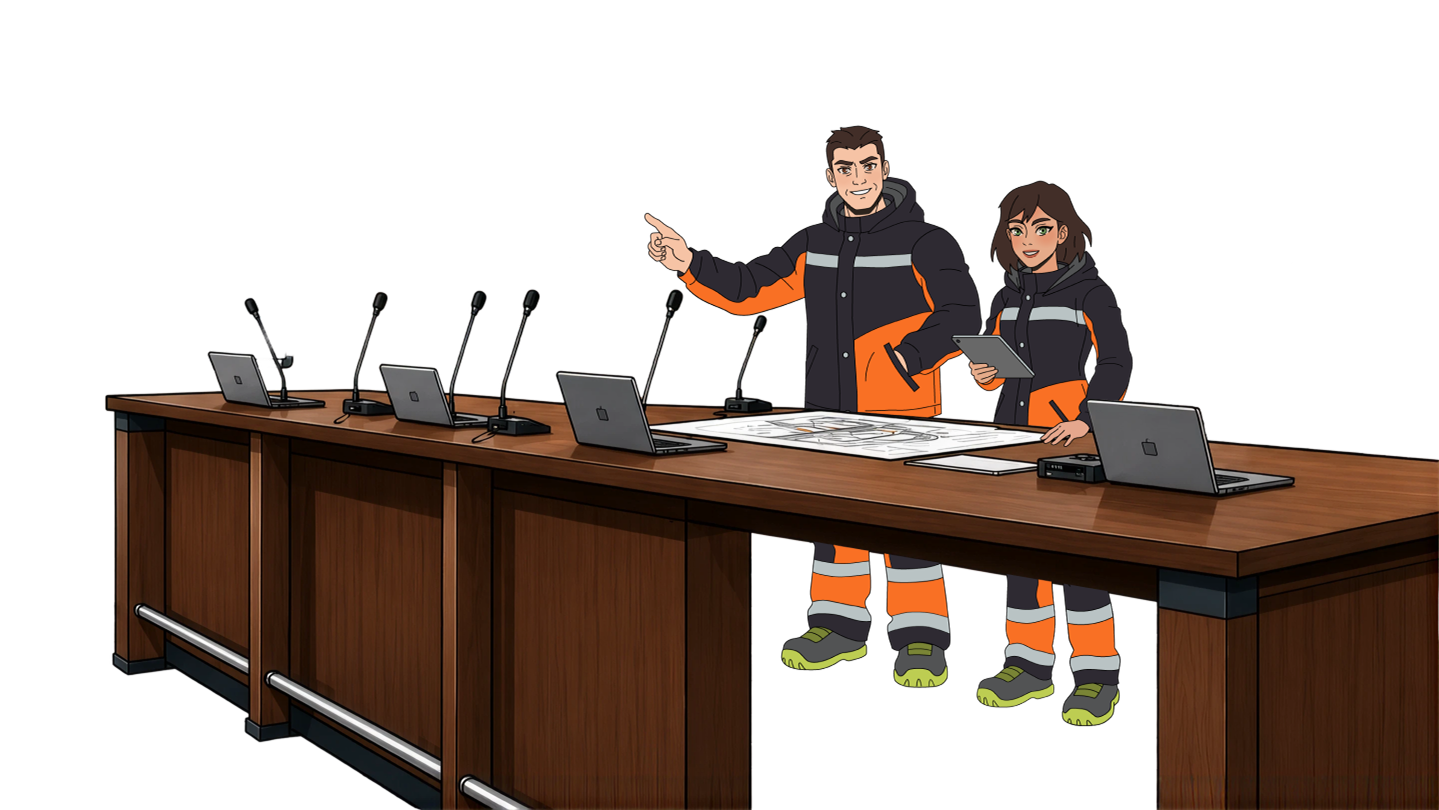
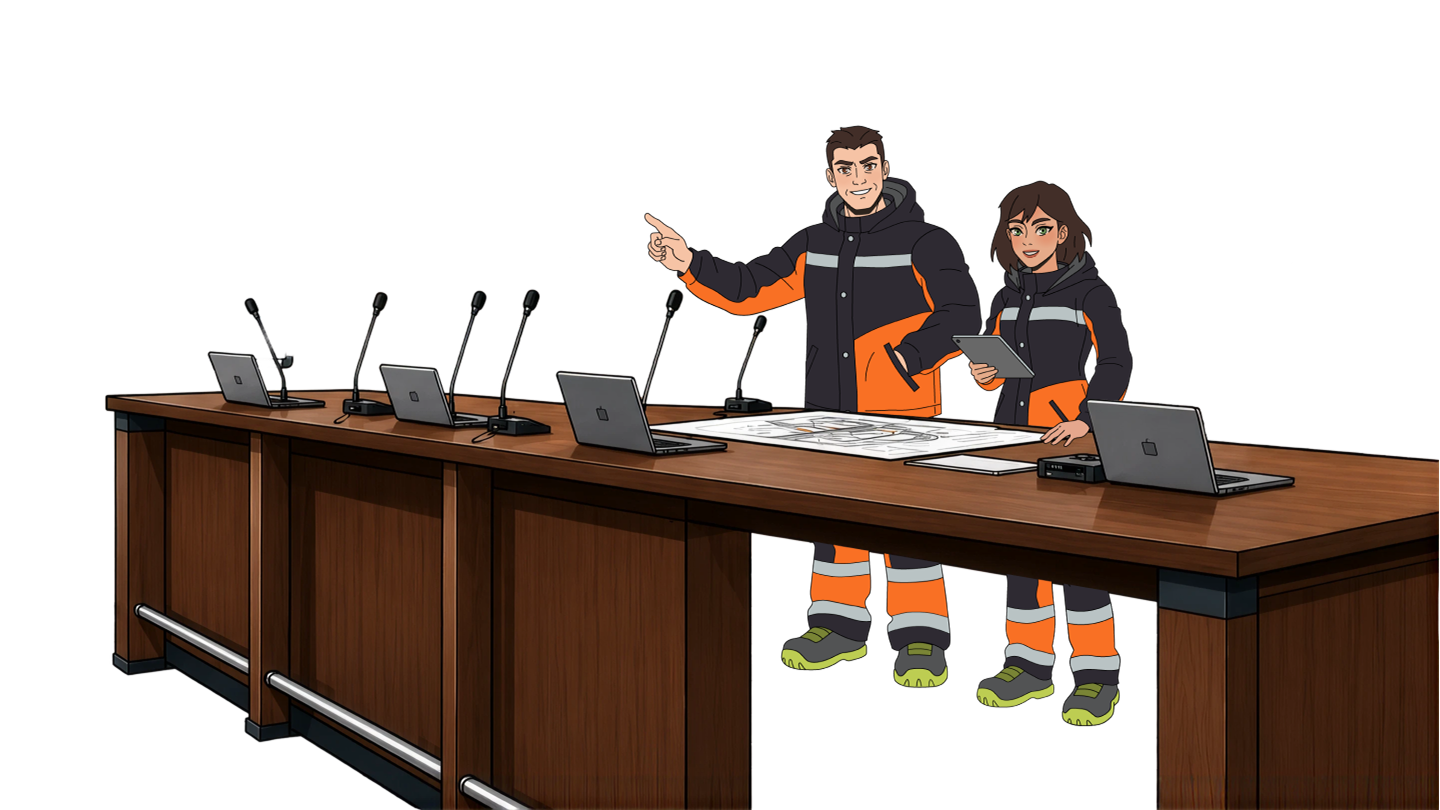
update quiz images

diff --git a/src/styles/body.css b/src/styles/body.css
@@ -119,13 +119,13 @@ body {
   }
 
   to {
-    transform: translateY(-100%) scale(1.2);
+    transform: translateY(-100%) scale(1);
   }
 }
 
 @keyframes chars-new-forward {
   from {
-    transform: translateY(100%) scale(1.2);
+    transform: translateY(100%) scale(1);
   }
 
   to {
@@ -139,13 +139,13 @@ body {
   }
 
   to {
-    transform: translateY(100%) scale(1.2);
+    transform: translateY(100%) scale(1);
   }
 }
 
 @keyframes chars-new-back {
   from {
-    transform: translateY(-100%) scale(1.2);
+    transform: translateY(-100%) scale(1);
   }
 
   to {
